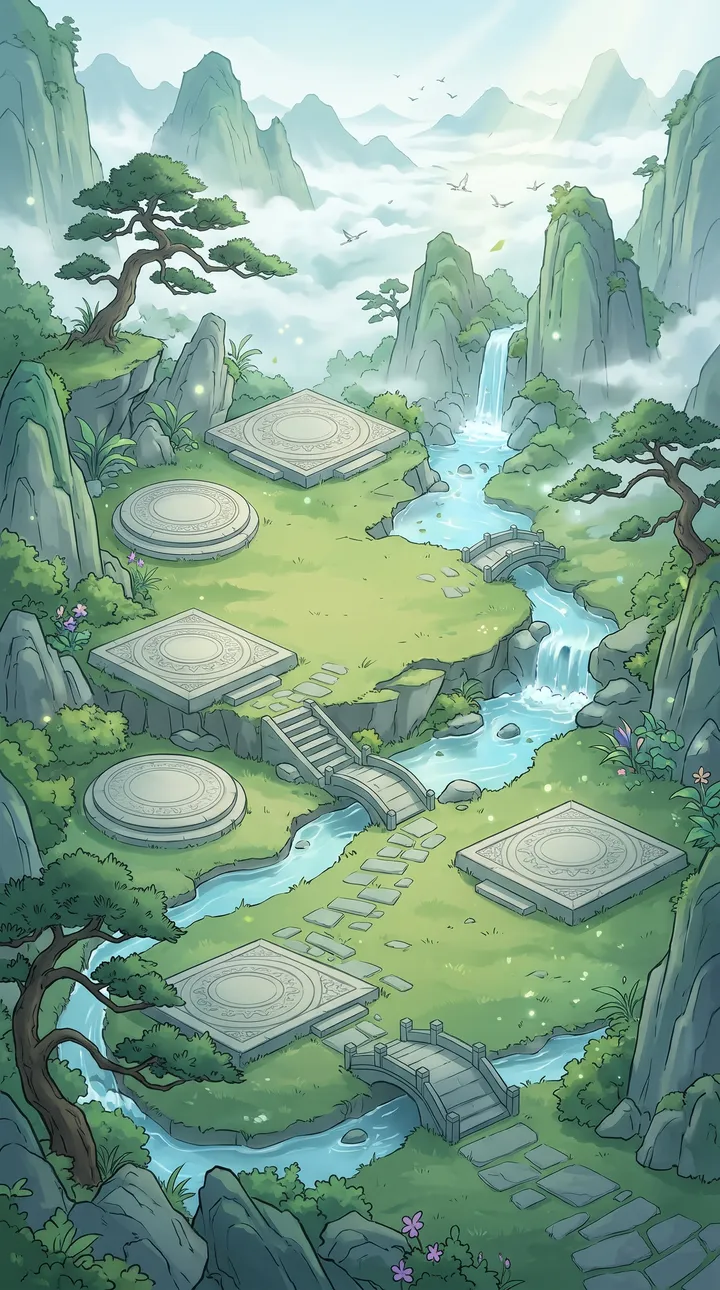
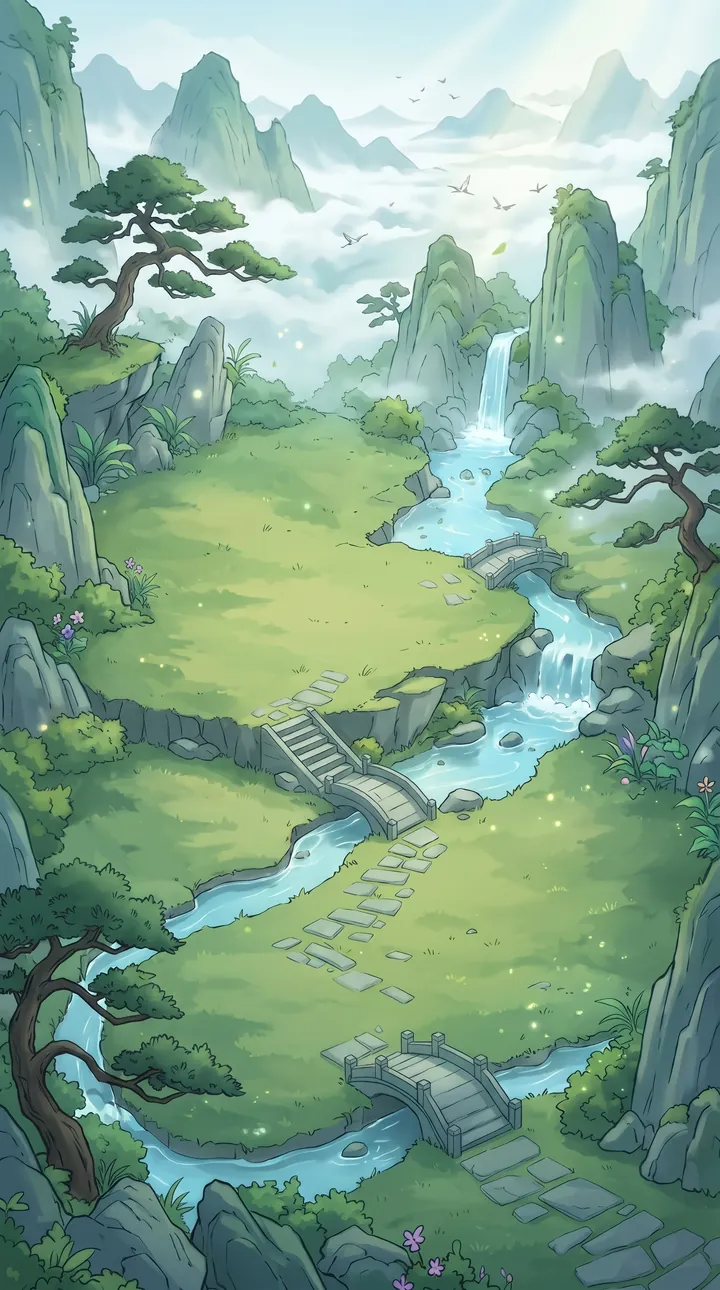
洞府：背景去掉石台，建筑直接落在草地上 (背景 Gemini 网页版；代码 Antigravity Gemini 4 Argon Low)

diff --git a/index.html b/index.html
@@ -284,7 +284,7 @@
 
       <!-- 页签2：功法与洞府升级 -->
       <section id="tab-upgrades" class="tab-pane">
-        <div class="gufeng-card home-card"><div id="home-scene" class="home-scene"><img id="home-bg" class="home-bg" alt="" src="assets/home/bg_fan.webp?v=1"><div id="home-blds"></div><div id="home-badges" class="home-badges"></div><div id="home-title" class="home-title"></div><div id="home-reveal" class="home-reveal"></div></div></div>
+        <div class="gufeng-card home-card"><div id="home-scene" class="home-scene"><img id="home-bg" class="home-bg" alt="" src="assets/home/bg_fan.webp?v=2"><div id="home-blds"></div><div id="home-badges" class="home-badges"></div><div id="home-title" class="home-title"></div><div id="home-reveal" class="home-reveal"></div></div></div>
         <div class="gufeng-card">
           <div class="card-header">
             <span class="card-title"><img class="gi" src="assets/icons/nav_upgrades@64.webp?v=18" alt=""
@@ -578,7 +578,7 @@
   <script src="js/battle.js?v=22"></script>
   <script src="js/gear.js?v=30"></script>
   <script src="js/stage-ui.js?v=25"></script>
-  <script src="js/game.js?v=33"></script>
+  <script src="js/game.js?v=34"></script>
 </body>
 
 </html>

diff --git a/js/game.js b/js/game.js
@@ -457,7 +457,7 @@
 
     const bgDisplayTier = GameState.getHomeBgDisplayTier();
     const bgTierInfo = HOME_TIERS[bgDisplayTier] || HOME_TIERS[0];
-    const nextBgSrc = `assets/home/bg_${bgTierInfo.key}.webp?v=1`;
+    const nextBgSrc = `assets/home/bg_${bgTierInfo.key}.webp?v=2`;
     if (els.homeBg && els.homeBg.getAttribute('src') !== nextBgSrc) {
       els.homeBg.setAttribute('src', nextBgSrc);
       els.homeBg.src = nextBgSrc;
